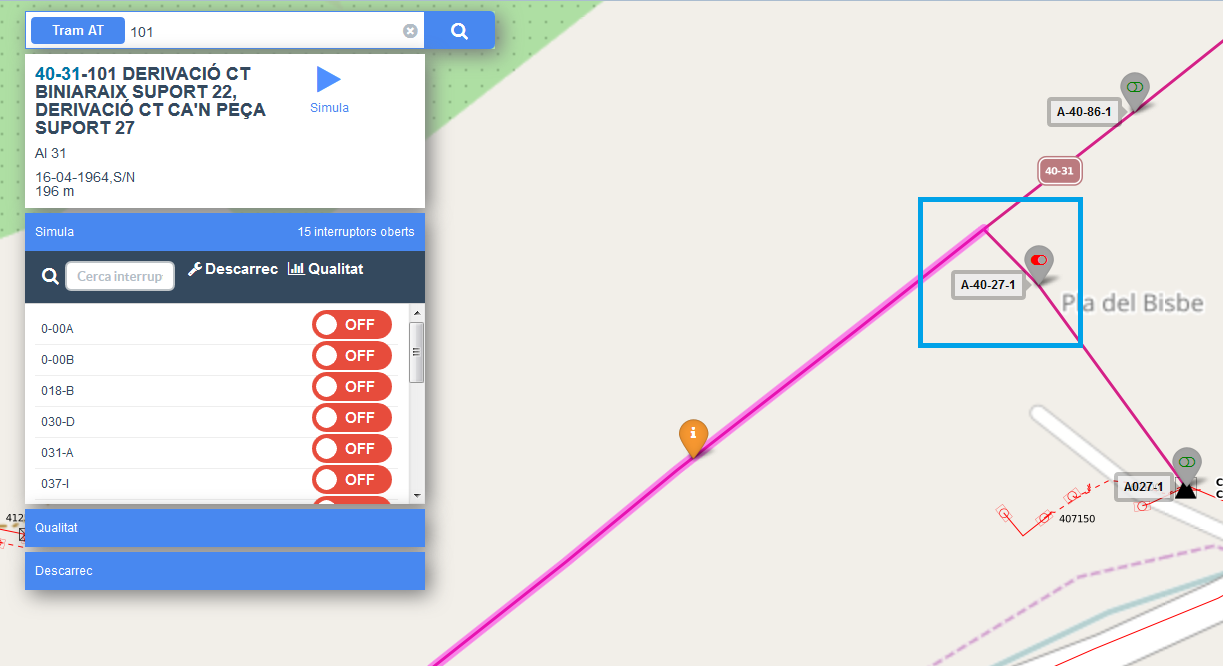
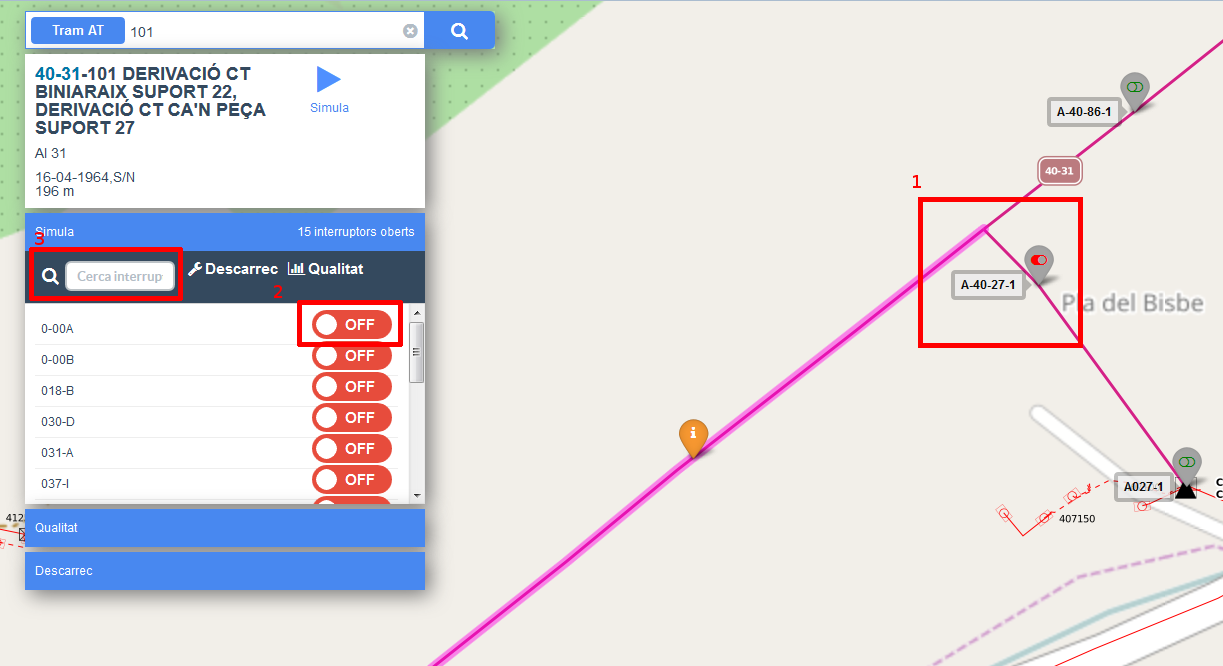
Improve step 3

Changed region(s): [[0.7457, 0.2703, 0.9011, 0.5405], [0.0, 0.3604, 0.1554, 0.4505], [0.2175, 0.4505, 0.3418, 0.5405]]

diff --git a/docs/gis/webgis.md b/docs/gis/webgis.md
@@ -77,7 +77,7 @@
 !!! note
     Si apareix el missatge "No hi ha nodes oberts" significa que no hi ha interruptors de AT oberts.
  
-3. Si volem canviar l'estat d'un interruptor ho podem fer prement l'interruptor al mapa(1). Tambè el podem modificar l'estat del interruptor en el llistat d'interruptors(2), en el cas que no estigui tancat el podem buscar(2).
+3. Si volem canviar l'estat d'un interruptor ho podem fer prement l'interruptor al mapa(1). Tambè el podem modificar l'estat del interruptor en el llistat d'interruptors(2), en el cas que no estigui tancat el podem buscar(3).
  ![](_static/sim_at/step_3.png)
  <note>
  <! indicar que es veu nombre de interruptors oberts>
